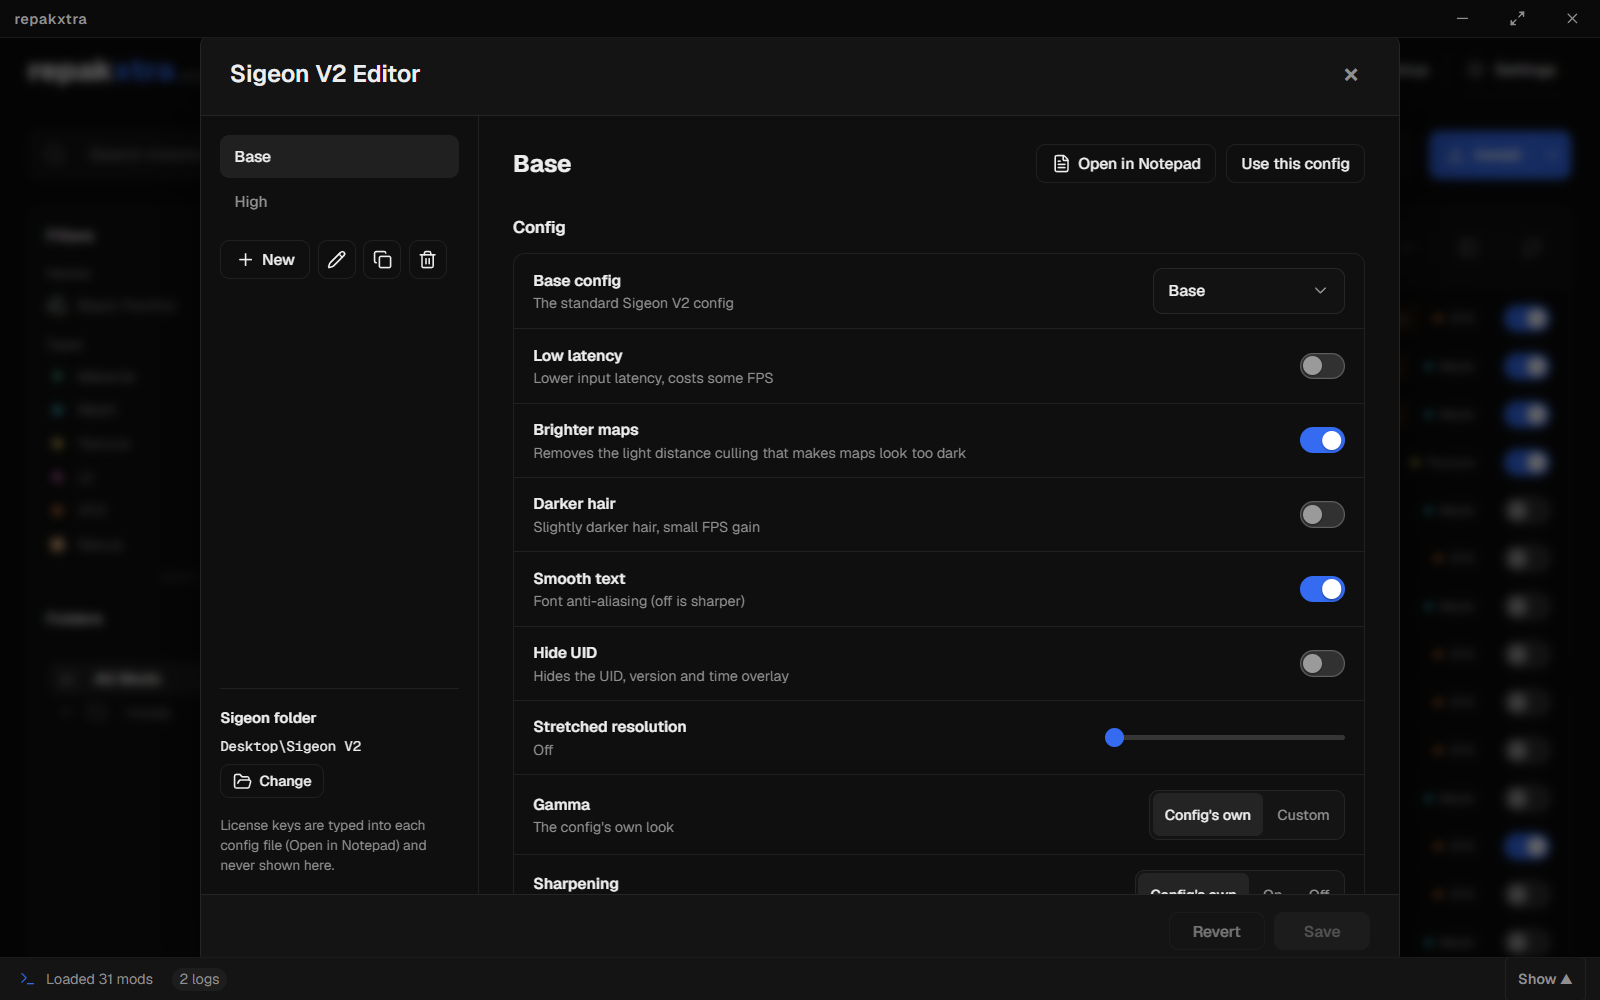
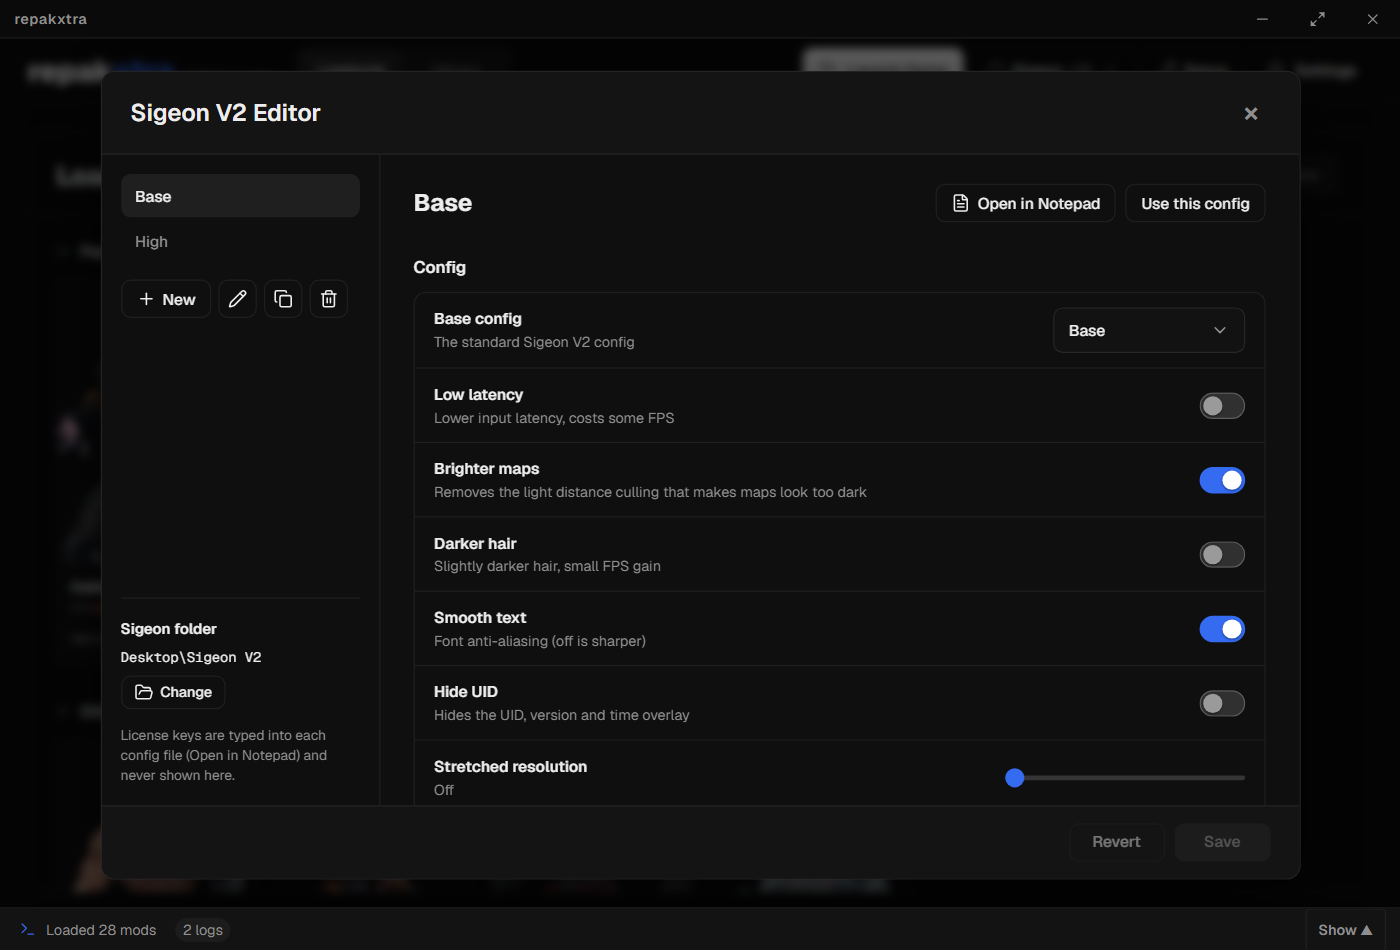
repakxtra 0.16.1: README screenshots and demos redone at the default window and scale
- Stills and GIFs show the app at its default 1400x950 window and 100% UI scale, with accurate cursor clicks and no clipped headers, rows or dialogs
- Only nine loadouts appear: Catboy, Ultimate, Godspeed, Fist ESU Black, Devil Dinosaur, Venom Biohazard, Jira Snow, Lime VFX and Electric Blue

diff --git a/repak-x/src/custom/version.ts b/repak-x/src/custom/version.ts
@@ -1,6 +1,6 @@
 // repakxtra: repakxtra's own version, bumped for each repakxtra release. The Repak X version it is built on still comes
 // from Cargo (get_app_version).
-export const REPAKXTRA_VERSION = '0.16.0'
+export const REPAKXTRA_VERSION = '0.16.1'
 
 /** Which copy this is. "dev": the live dev copy (dev.ps1, or the browser preview), served by Vite. "test": made with
  *  `build.ps1 -Test`, which sets VITE_REPAKXTRA_TEST for the frontend build. Both mark themselves: the "xtra" in the app

diff --git a/release-notes/v0.16.1.md b/release-notes/v0.16.1.md
@@ -1,0 +1,1 @@
+- Refresh the README screenshots and demo GIFs at the default window size and UI scale, with accurate cursor clicks
